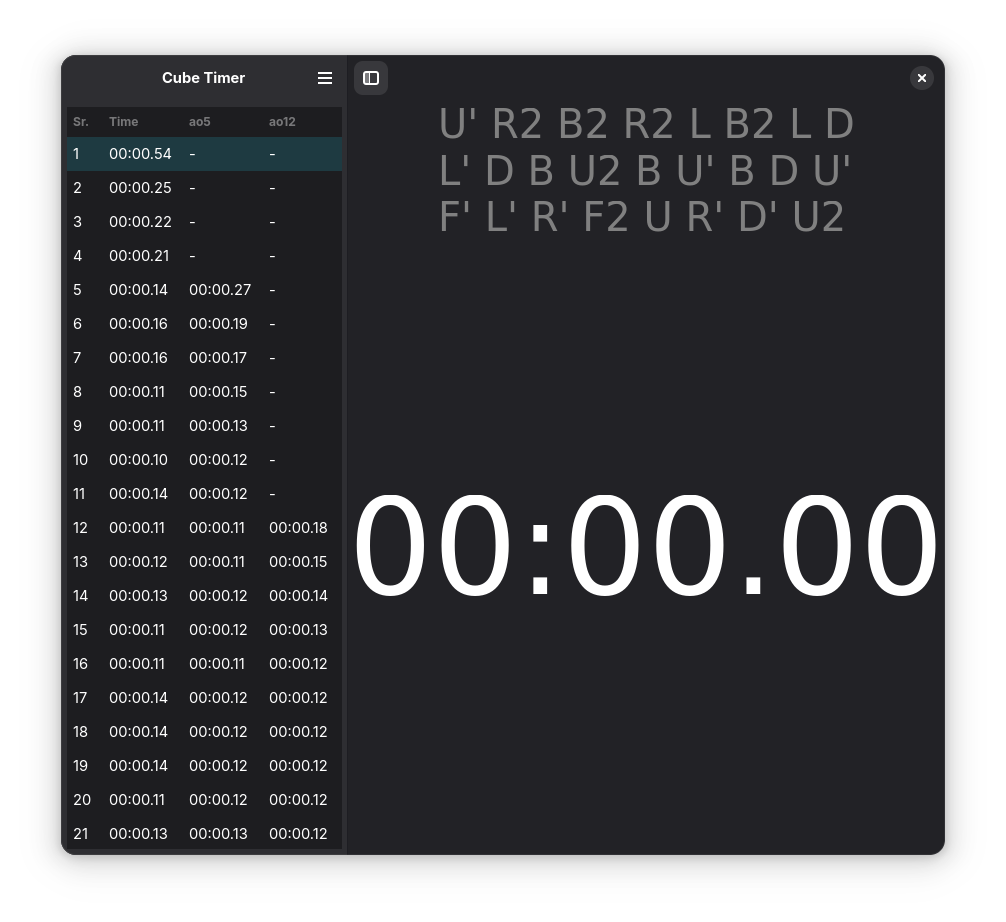
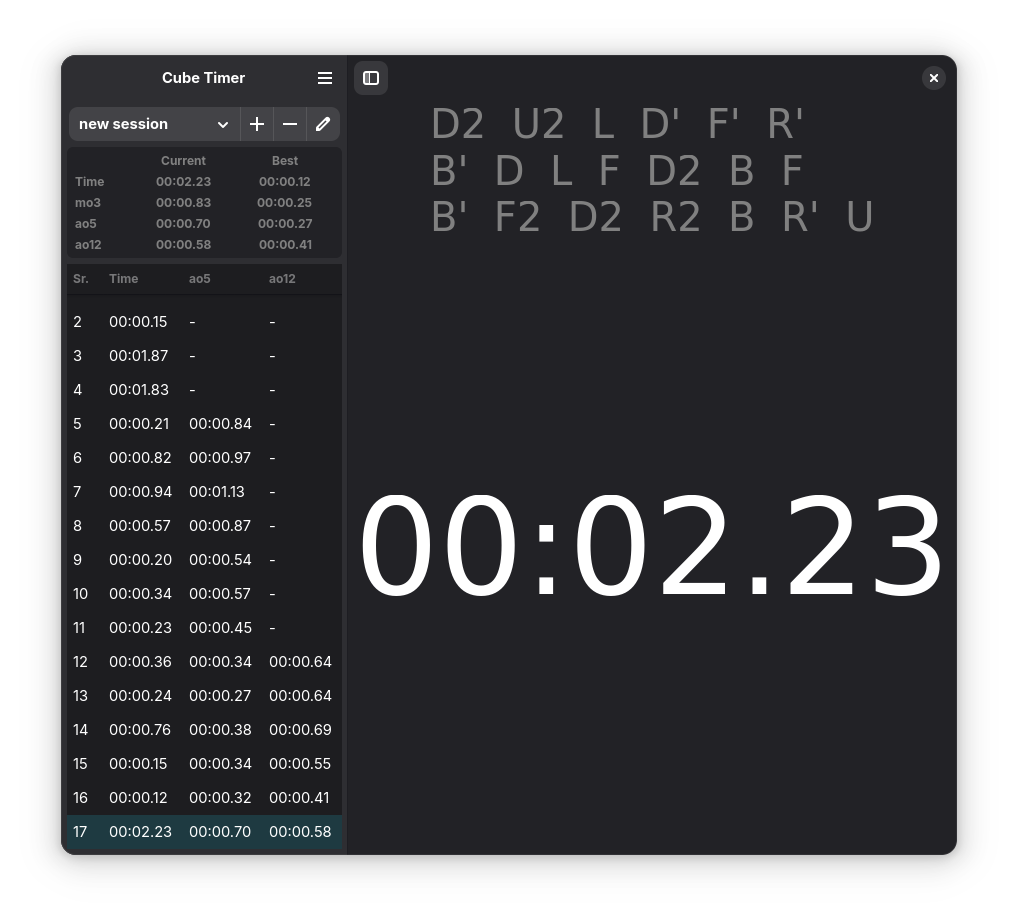
add scores files open option

diff --git a/src/gtk/style-dark.css b/src/gtk/style-dark.css
@@ -1,6 +1,5 @@
 .timer {
     font-weight: normal;
-    font-size: 134px;
     font-family: sans-serif;
 }
 
@@ -17,5 +16,5 @@
     color: grey;
     padding: 6px;
     border-radius: 6px;
-    background-color: #FAFAFB;
+    background-color: #222226;
 }

diff --git a/src/main.py b/src/main.py
@@ -6,10 +6,7 @@ gi.require_version('Adw', '1')
 
 from gi.repository import Gtk, Gio, Adw, Gdk
 from .window import CubeTimerWindow
-
-css_provider = Gtk.CssProvider()
-css_provider.load_from_resource('io/github/vallabhvidy/CubeTimer/gtk/style.css')
-Gtk.StyleContext.add_provider_for_display(Gdk.Display.get_default(), css_provider, Gtk.STYLE_PROVIDER_PRIORITY_APPLICATION)
+from .utils import scores_file_path
 
 class CubeTimerApplication(Adw.Application):
     """The main application singleton class."""
@@ -17,8 +14,12 @@ class CubeTimerApplication(Adw.Application):
     def __init__(self):
         super().__init__(application_id='io.github.vallabhvidy.CubeTimer',
                          flags=Gio.ApplicationFlags.DEFAULT_FLAGS)
+
+        self.set_resource_base_path("/io/github/vallabhvidy/CubeTimer/gtk")
+
         self.create_action('quit', lambda *_: self.quit(), ['<primary>q'])
         self.create_action('about', self.on_about_action)
+        self.create_action('view_scores', self.on_view_scores)
         # self.create_action('preferences', self.on_preferences_action)
 
     def do_activate(self):
@@ -46,6 +47,15 @@ class CubeTimerApplication(Adw.Application):
     def on_preferences_action(self, widget, _):
         """Callback for the app.preferences action."""
         print('app.preferences action activated')
+
+    def on_view_scores(self, widget, _):
+        file = Gio.File.new_for_path(str(scores_file_path))
+        file_launcher = Gtk.FileLauncher(
+            always_ask=True,
+            file=file,
+        )
+
+        file_launcher.open_containing_folder()
 
     def create_action(self, name, callback, shortcuts=None):
         """Add an application action.

diff --git a/src/score.py b/src/score.py
@@ -1,12 +1,6 @@
 from gi.repository import Gtk, GLib, GObject, Gio, Adw, Pango
-from .utils import calc_time, time_string
-import os
+from .utils import calc_time, time_string, scores_file_path
 import json
-from pathlib import Path
-
-data_dir = Path(os.getenv('XDG_DATA_HOME', Path.home() / '.local/share')) / 'flatpak' / 'apps' / 'cube-timer' / 'CubeTimer'
-data_dir.mkdir(parents=True, exist_ok=True)
-scores_file_path = data_dir / 'scores.json'
 
 class CubeTimerModel:
     def __init__(self):

diff --git a/src/timerlabel.py b/src/timerlabel.py
@@ -30,9 +30,8 @@ class CubeTimerLabel(Gtk.Label):
         color = self.color if color == None else color
         time = time_string(self.timer.time)
         time = time if time != "DNF" else "00:00.00"
-        time_format = _("<span font='{font_size}' color='{color}'>{time}</span>")
+        time_format = _("<span color='{color}'>{time}</span>")
         self.set_markup(time_format.format(
-            font_size=self.font_size,
             color=color,
             time=time
         ))

diff --git a/src/utils.py b/src/utils.py
@@ -1,4 +1,10 @@
 from random import randint
+from pathlib import Path
+import os
+
+data_dir = Path(os.getenv('XDG_DATA_HOME', Path.home() / '.local/share')) / 'flatpak' / 'apps' / 'cube-timer' / 'CubeTimer'
+data_dir.mkdir(parents=True, exist_ok=True)
+scores_file_path = data_dir / 'scores.json'
 
 def calc_time(time):
     minutes = time // 6000
@@ -39,3 +45,5 @@ def scramble_gen(scramble_length):
         i += 1
     scramble = "  ".join([a[0]+a[1] for a in arr])
     return scramble
+
+
